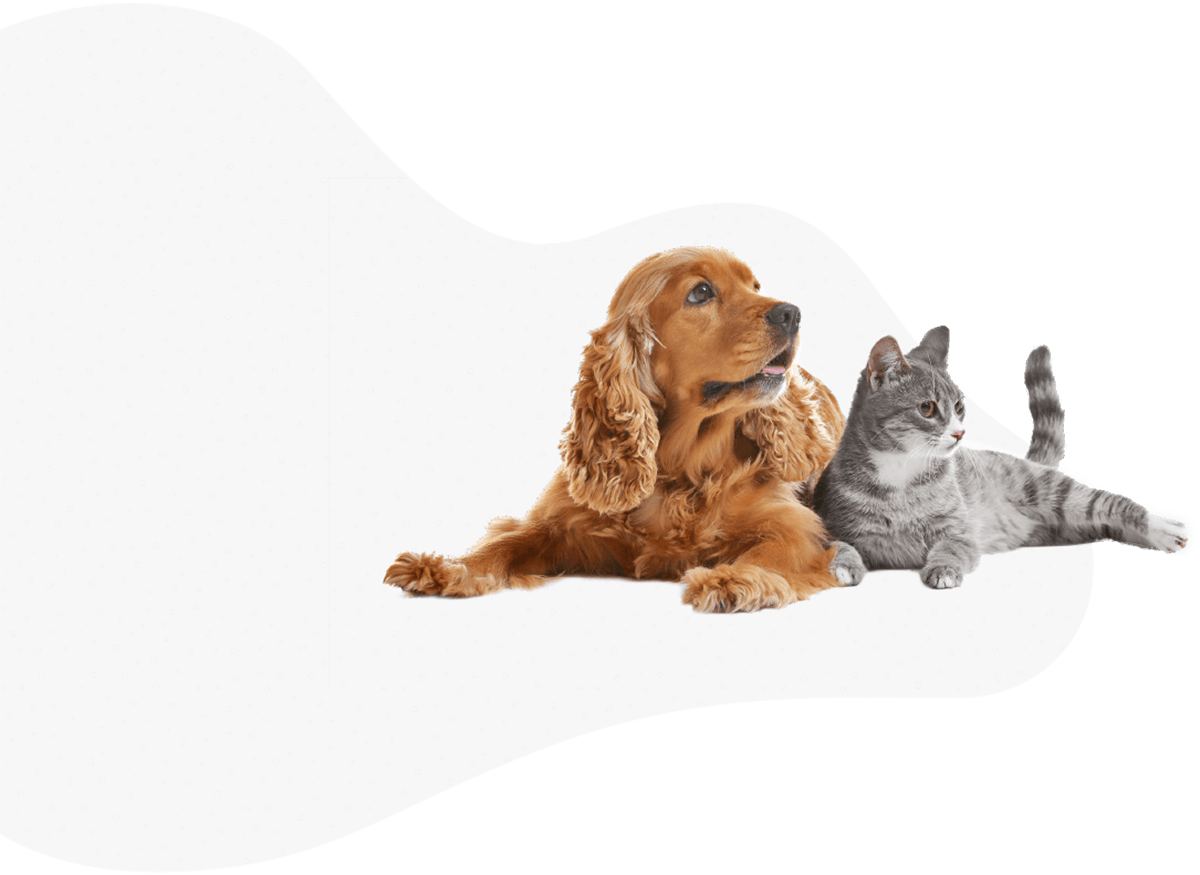
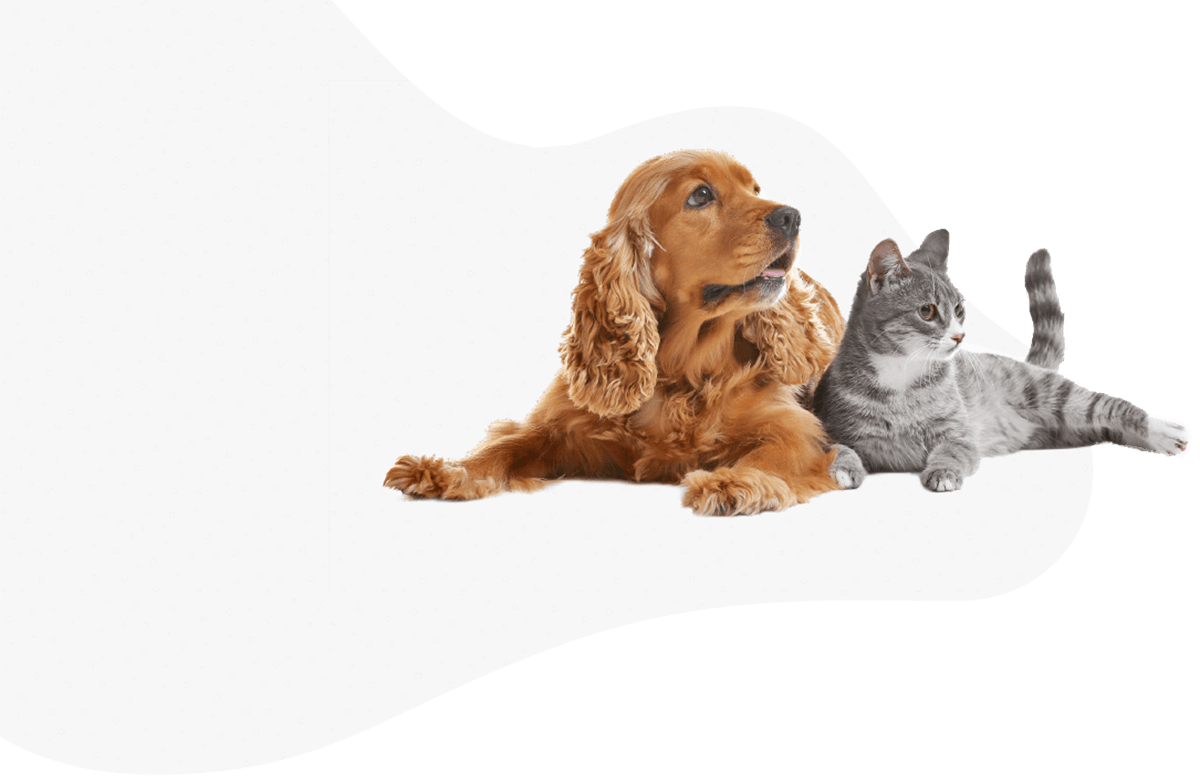
update shop, services

Changed region(s): [[0.3083, 0.1851, 0.9867, 0.7095]]

diff --git a/style.css b/style.css
@@ -12,18 +12,46 @@ body {
     background-color: aliceblue;
     font-family: "Nunito", sans-serif;
     font-optical-sizing: auto;
-    margin-top: 100px;
 }
 
 .no-scroll {
     overflow: hidden;
 }
 
+.startover {
+    text-decoration: none;
+    position: fixed;
+    right: 10px;
+    bottom: 30px;
+    border: none;
+    font-size: 75px;
+    font-weight: 900;
+    transform: rotate(90deg);
+    z-index: 2000;
+    text-shadow: 0px 0px 4px black;
+    animation: blink0 2s infinite;
+}
+
+@keyframes blink0 {
+
+    0%,
+    100% {
+        color: rgb(198, 4, 252);
+    }
+
+    50% {
+        color: red;
+    }
+}
+
+.startover:hover {
+    animation: none;
+    color: rgb(81, 255, 0);
+}
+
 /* Header section */
 
 .header {
-    position: fixed;
-    top: 0px;
     width: 100vw;
     background-color: rgb(213, 234, 253);
     display: flex;
@@ -107,7 +135,7 @@ body {
     background-color: black;
     width: 100vw;
     height: 550px;
-    opacity: 0.3;
+    opacity: 0.4;
     z-index: 1000;
 }
 
@@ -247,14 +275,13 @@ body {
 .homepage img {
     position: absolute;
     left: -500px;
-    top: 40px;
 }
 
 .hometitle {
     position: relative;
     font-size: 90px;
     font-weight: 900;
-    top: 90px;
+    top: 10px;
     left: 600px;
     text-shadow:
         -1px -1px 0 rgba(0, 179, 255, 0.359),
@@ -269,15 +296,10 @@ body {
     display: inline;
     font-size: 40px;
     font-weight: 900;
-    top: 110px;
     left: 860px;
     background: linear-gradient(90deg, rgba(255, 122, 199, 0.9818431522999825) 0%, rgba(16, 255, 227, 1) 100%);
     background-clip: text;
     -webkit-text-fill-color: transparent;
-}
-
-.homeend {
-    margin-top: 350px;
 }
 
 .fordogs,
@@ -290,7 +312,7 @@ body {
     padding: 8px;
     font-size: 35px;
     letter-spacing: 1px;
-    top: 120px;
+    top: 65px;
     left: 800px;
     margin-left: 20px;
     border-radius: 0 15px 15px 15px;
@@ -341,15 +363,25 @@ body {
     color: white;
 }
 
+.food2 {
+    position: relative;
+    left: 850px;
+    top: 75px;
+    opacity: 0.8;
+}
+
+.homeend {
+    padding-bottom: -150px;
+}
+
 /* About section */
 
 .aboutus {
-    margin-top: 460px;
     text-align: center;
     align-items: center;
     display: flex;
     flex-direction: column;
-    padding-bottom: 80px;
+    padding-bottom: 50px;
 }
 
 .aboutus h1 {
@@ -371,12 +403,96 @@ body {
     border-radius: 30px;
 }
 
+.cards {
+    display: flex;
+    flex-direction: row;
+    justify-content: center;
+    align-items: center;
+    gap: 20px;
+    padding-bottom: 50px;
+}
+
+.card {
+    display: flex;
+    flex-direction: column;
+    align-items: center;
+    border-radius: 20px;
+    border: 2.5px solid black;
+    transition: all 1s easy;
+    cursor: context-menu;
+    width: 280px;
+    height: 150px;
+    padding: 20px;
+    background-color: white;
+}
+
+.card h1 {
+    font-size: 35px;
+    font-weight: 800;
+    color: orangered;
+    text-decoration: underline;
+    padding-bottom: 10px;
+}
+
+.card p {
+    font-size: 20px;
+    font-weight: 700;
+}
+
+#c1,
+#c3 {
+    animation: blink3 5s infinite;
+}
+
+#c2 {
+    animation: blink4 5s infinite;
+}
+
+@keyframes blink3 {
+
+    0%,
+    100% {
+        background-color: rgba(0, 0, 0, 0.6);
+        color: white;
+    }
+
+    50% {
+        background-color: white;
+        color: black;
+    }
+}
+
+@keyframes blink4 {
+    50% {
+        background-color: rgba(0, 0, 0, 0.6);
+        color: white;
+    }
+
+    0%,
+    100% {
+        background-color: white;
+        color: black;
+    }
+}
+
+.card:hover {
+    transform: scale(1.05);
+    box-shadow: 0px 2px 5px black;
+}
+
+#c1:hover,
+#c2:hover,
+#c3:hover {
+    animation: none;
+}
+
 .about {
     display: flex;
     flex-direction: row;
     padding-left: 50px;
     padding-right: 20px;
     padding-bottom: 50px;
+    padding-top: 50px;
 }
 
 .aboutinfo {
@@ -427,6 +543,64 @@ body {
     font-weight: 900;
 }
 
+/* Prices */
+.price {
+    background-color: white;
+    border-radius: 30px;
+    display: flex;
+    flex-direction: row;
+    margin-bottom: 30px;
+}
+
+.priceinfo {
+    display: flex;
+    flex-direction: column;
+    padding-left: 200px;
+}
+
+.priceinfo h1 {
+    font-size: 60px;
+    font-weight: 900;
+    padding-top: 40px;
+}
+
+.priceinfo p {
+    padding-top: 15px;
+    font-size: 25px;
+    font-weight: 500;
+    width: 500px;
+}
+
+.amount {
+    font-weight: 700;
+    font-size: 40px;
+    padding-top: 20px;
+}
+
+.buy,
+.buymore {
+    cursor: pointer;
+    border: 3px solid black;
+    width: 250px;
+    padding: 8px;
+    font-size: 25px;
+    letter-spacing: 1px;
+    border-radius: 0 15px 15px 15px;
+    margin-top: 30px;
+    margin-left: 3px;
+}
+
+.buy {
+    animation: blink1 1.2s infinite;
+}
+
+.buy:hover,
+.buymore:hover {
+    animation: none;
+    background-color: orangered;
+    color: white;
+}
+
 /* Cat Boarding */
 
 .catboarding,
@@ -475,7 +649,7 @@ body {
     align-items: end;
     width: 140px;
     border-radius: 20px;
-    border: 2.5px solid black;
+    border: 2px solid rgb(0, 115, 255);
     padding: 15px;
     gap: 10px;
     font-family: 'Gill Sans', 'Gill Sans MT', Calibri, 'Trebuchet MS', sans-serif;

diff --git a/index.html b/index.html
@@ -14,8 +14,9 @@
 </head>
 
 <body>
+    <a href="#startover" class="startover">⟪⟪</a>
     <!-- Header section -->
-    <header class="header">
+    <header class="header" id="startover">
         <div class="heading">
             <img src="./images/animal.png" width="40px" height="40px" alt="Foot print icon">
             <h1>Pet Care</h1>
@@ -98,15 +99,39 @@
             <button class="forcats">FOR CATS</button>
         </div>
     </div>
+    <img src="./images/food2.png" alt="Food image" class="food2">
     <div class="homeend" id="about"></div>
 
     <!-- About section -->
     <div class="aboutus">
         <h1>About Us</h1>
         <div class="brline"></div>
-        <p>From the time our friends sniff their way through the door until they wag their tails out in the afternoon, we cater to their nature.</p>
+        <p>From the time our friends sniff their way through the door until they wag their tails out in the afternoon,
+            we cater to their nature.</p>
     </div>
-    <div class="about">
+
+    <div class="cards">
+        <div class="card" id="c1">
+            <h1>Location</h1>
+            <p>35/7, St. Rita's Road,</p>
+            <p>Mount-Lavinia,</p>
+            <p>Colombo.</p>
+        </div>
+        <div class="card" id="c2">
+            <h1>Contact</h1>
+            <p>Phone Numbers,</p>
+            <p>074 074 9695</p>
+            <p>075 074 9652</p>
+        </div>
+        <div class="card" id="c3">
+            <h1>Check-in Time</h1>
+            <p>From: 8 AM</p>
+            <p>To: 9 PM</p>
+        </div>
+    </div>
+
+    <!-- Shop section -->
+    <div class="about" id="shop">
         <div class="aboutinfo">
             <p class="aboutheading"><span style="color: orangered;">Premium</span> Pet Food Manufacturer</p>
             <div class="infocontainer">
@@ -131,8 +156,37 @@
         <img class="foodimg" src="./images/food.png" alt="food image" width="650px">
     </div>
 
+    <div class="prices">
+        <div class="price">
+            <img src="./images/price11.png" alt="Dog Food price" width="650px">
+            <div class="priceinfo">
+                <h1><span style="color: orangered">Air-Dried </span><br>Dog Food</h1>
+                <p>Handcrafted air-dried recipes with high inclusions of meat, seafood, organs, and bone in whole-prey
+                    ratios.</p>
+                <h3 class="amount">Rs. 500.00 - Rs. 3500.00</h3>
+                <div>
+                    <button class="buy">BUY</button>
+                    <button class="buymore">VIEW MORE</button>
+                </div>
+            </div>
+        </div>
+        <div class="price">
+            <div class="priceinfo">
+                <h1><span style="color: orangered">Air-Dried </span><br>Cat Food</h1>
+                <p>Handcrafted air-dried recipes with high inclusions of meat, seafood, organs, and bone in whole-prey
+                    ratios.</p>
+                <h3 class="amount">Rs. 350.00 - Rs. 3200.00</h3>
+                <div>
+                    <button class="buy">BUY</button>
+                    <button class="buymore">VIEW MORE</button>
+                </div>
+            </div>
+            <img src="./images/price22.png" alt="Dog Food price" width="650px">
+        </div>
+    </div>
+
     <!-- Cat Boarding -->
-    <div class="catboarding">
+    <div class="catboarding" id="services">
         <img src="./images/hero_image_02.png" alt="cat image" class="catboardingimg" width="800px">
         <div class="catcontainer">
             <h2>Cat <span style="color: orangered;">Boarding</span></h2>
@@ -186,6 +240,8 @@
         </div>
         <img src="./images/hero_image_01.png" alt="cat image" class="dogkennelsimg" width="800px">
     </div>
+
+
 
 
     <script src="script.js"></script>
